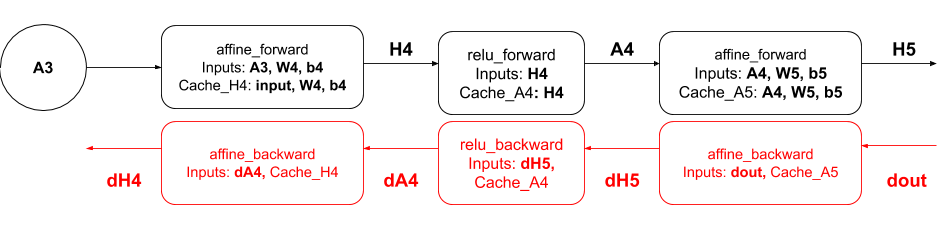
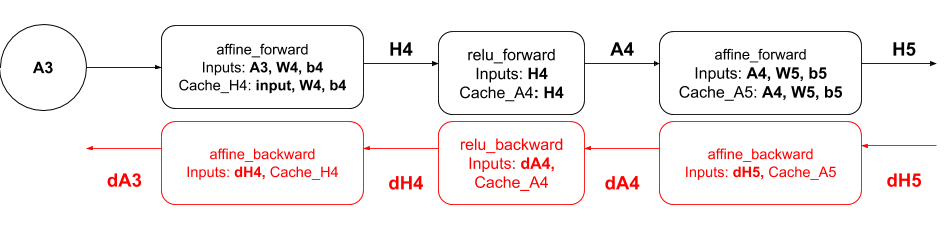
Add batchnorm post and update links at bottom.

diff --git a/_posts/2020-3-29-FC-NN.md b/_posts/2020-3-29-FC-NN.md
@@ -27,7 +27,7 @@ transformed to the neurons of the next layer $$\mathbf{out}$$ as
 
 $$
 \begin{align}
-\mathbf{out} = \mathbf{W} \cdot \mathbf{x} + \mathbf{b}
+\mathbf{out} =  \mathbf{x} \cdot \mathbf{W} + \mathbf{b}
 \end{align}
 $$
 
@@ -37,31 +37,22 @@ $$
 \begin{align}
 
 \mathbf{out} = \begin{pmatrix}
-h^{(2)}_{1} \\
-h^{(2)}_{2} \\
-\vdots \\
-h^{(2)}_{l}
+h^{(2)}_{1} & h^{(2)}_{2} & \dots & h^{(2)}_{k}
 \end{pmatrix}
-,
+, \\
+\nonumber \\
+\mathbf{x} = \begin{pmatrix}
+h^{(1)}_{1} & h^{(1)}_{2} & \dots & h^{(1)}_{l}
+\end{pmatrix}, \nonumber \\
 \mathbf{W} = \begin{pmatrix}
 W_{1,1} & W_{1,2} & \dots & W_{1,k} \\
 W_{2,1} & W_{2,1} & \dots & W_{2,k} \\
 \vdots & \vdots & \ddots & \vdots \\
 W_{l,1} & W_{l,2} & \dots & W_{l,k} \\
-\end{pmatrix}
-\nonumber \\
-\nonumber \\
-\mathbf{x} = \begin{pmatrix}
-h^{(1)}_{1} \\
-h^{(1)}_{2} \\
-\vdots \\
-h^{(1)}_{k}
 \end{pmatrix},
+\nonumber \\
 \mathbf{b} = \begin{pmatrix}
-b_{1} \\
-b_{2} \\
-\vdots \\
-b_{l}
+b_{1} & b_{2} & \dots & b_{k}
 \end{pmatrix}
 \end{align}
 $$
@@ -83,7 +74,7 @@ def affine_forward(x, w, b):
 ### Backward
 
 For the backward pass over the fully connected layers we need to calculate the gradient of 
-$$\mathbf{h}^{(2)}$$ with respect to $$\mathbf{W}, \mathbf{x}$$ and $$\mathbf{b}$$. Lets 
+$$\mathbf{out}$$ with respect to $$\mathbf{W}, \mathbf{x}$$ and $$\mathbf{b}$$. Lets 
 take at a look at the circuit diagram representing the fully-connected neural layers.
 
 ![_config.yml]({{ site.baseurl }}/images/FC_NN/FC_NN_backprop.png)
@@ -231,10 +222,10 @@ To start, initialize the weights for the neural network:
 self.params['W1'] = np.random.normal(0, weight_scale, [input_dim, hidden_dims[0]])
 self.params['b1'] = np.zeros([hidden_dims[0]])
 
-# hidden layers
-for i in range(1, self.num_layers - 1):
-    self.params['W' + str(i+1)] = np.random.normal(0, weight_scale, [hidden_dims[i - 1], hidden_dims[i]])
-    self.params['b' + str(i+1)] = np.zeros([hidden_dims[i]])
+# hidden layer
+for i in range(2, self.num_layers):
+    self.params['W' + str(i)] = np.random.normal(0, weight_scale, [hidden_dims[i - 2], hidden_dims[i - 1]])
+    self.params['b' + str(i)] = np.zeros([hidden_dims[i - 1]])
 
 # the final layer
 self.params['W' + str(self.num_layers)] = np.random.normal(0, weight_scale,
@@ -252,23 +243,23 @@ self.cache['H1'], self.cache['cache_H1'] = affine_forward(X, self.params['W1'], 
 self.cache['A1'], self.cache['cache_A1'] = relu_forward(self.cache['H1'])
 
 #Intermediate hidden laters
-for i in range(1, self.num_layers - 1):
-    self.cache['H' + str(i+1)], self.cache['cache_H' + str(i+1)] = affine_forward(
-    self.cache['A' + str(i)], self.params['W' + str(i+1)], self.params['b' + str(i+1)])
+for i in range(2, self.num_layers):
+    self.cache['H' + str(i)], self.cache['cache_H' + str(i)] = affine_forward(
+    self.cache['A' + str(i - 1)], self.params['W' + str(i)], self.params['b' + str(i)])
     
-    self.cache['A' + str(i + 1)], self.cache['cache_A' + str(i+1)] = relu_forward(
-        self.cache['H' + str(i+1)])
+    self.cache['A' + str(i)], self.cache['cache_A' + str(i)] = relu_forward(self.cache['H' + str(i)])
     
 # output layer
-scores, cache_scores = affine_forward(self.cache['A' + str(self.num_layers - 1)], 
-                   self.params['W' + str(self.num_layers)], self.params['b' + str(self.num_layers)] )
+scores, self.cache['cache_H' + str(self.num_layers)] = affine_forward(self.cache['A' + str(self.num_layers - 1)], 
+                                      self.params['W' + str(self.num_layers)], 
+                                      self.params['b' + str(self.num_layers)] )
 ```
 
 For the backward pass we can use the cache variable created in the affine_forward and ReLU_forward 
-function to compute affine_backward and ReLU_backward. For e.g. in the middle of the neural network
-the forward and backward pass would look as follow:
+function to compute affine_backward and ReLU_backward. For e.g. a 2 layer neural network would look 
+like this:
 
-![_config.yml]({{ site.baseurl }}/images/FC_NN/Modular_Forward_Backward.png)
+![_config.yml]({{ site.baseurl }}/images/FC_NN/2-layer_Modular_Forward_Backward.png)
 *Using the inputs to the forward passes in backward pass.*
 
 In python within the framework of the assignment it can be implemented in the following way:
@@ -276,24 +267,27 @@ In python within the framework of the assignment it can be implemented in the fo
 ```python
 # first backward pass
 loss, grad_L_wrt_scores = softmax_loss(scores, y)
-for i in range(self.num_layers):
-    loss += 0.5 * self.reg * (np.sum(self.params['W' + str(i + 1)] * self.params['W' + str(i + 1)]) )
+for i in range(1, self.num_layers + 1):
+    loss += 0.5 * self.reg * (np.sum(self.params['W' + str(i)] * self.params['W' + str(i)]) )
     
 
 backward = {}
-backward['H' + str(self.num_layers)], grads['W' + str(self.num_layers)], \
-grads['b' + str(self.num_layers)] = affine_backward(grad_L_wrt_scores, cache_scores)
+
+backward['A' + str(self.num_layers - 1)], grads['W' + str(self.num_layers)], \
+grads['b' + str(self.num_layers)] = affine_backward(grad_L_wrt_scores, 
+                                        self.cache['cache_H' + str(self.num_layers)])
 
 grads['W' + str(self.num_layers)] += self.reg*self.params['W' + str(self.num_layers)]
-    
-for i in range(self.num_layers - 1, 0, -1):
-    backward['A' + str(i)] = relu_backward(backward['H' + str(i + 1)], 
-                                       self.cache['cache_A' + str(i)])
 
-    backward['H' + str(i)], grads['W' + str(i)], grads['b' + str(i)] = affine_backward(
-    backward['A' + str(i)], self.cache['cache_H' + str(i)])
+for i in range(self.num_layers - 1, 0, -1):
+    backward['H' + str(i)] = relu_backward(backward['A' + str(i)], self.cache['cache_A' + str(i)])
     
+    backward['A' + str(i - 1)], grads['W' + str(i)], grads['b' + str(i)] = affine_backward(
+                                    backward['H' + str(i)], self.cache['cache_H' + str(i)])
+    
+## A0 corresponds to dX
+
     grads['W' + str(i)] += self.reg*self.params['W' + str(i)]
 ```
 
-To see the full assignment, see [here](https://github.com/usmanr149/CS231n/blob/master/assignment2/FullyConnectedNets.ipynb).
+Check out the full assignment <a href="https://github.com/usmanr149/CS231n/blob/master/assignment2/FullyConnectedNets.ipynb" target="_blank">here</a>

diff --git a/_posts/2020-3-16-two-layer-NN.md b/_posts/2020-3-16-two-layer-NN.md
@@ -167,4 +167,4 @@ grads['b1'] = grad_L_wrt_b1
 grads['W2'] = grad_L_wrt_W2 + 2 * reg * W2
 grads['b2'] = grad_L_wrt_b2
 ```
-To see the fully completed assignment, see [here](https://github.com/usmanr149/CS231n/blob/master/assignment1/two_layer_net.ipynb).
+Check out the full assignment <a href="https://github.com/usmanr149/CS231n/blob/master/assignment1/two_layer_net.ipynb" target="_blank">here</a>

diff --git a/_posts/2020-3-4-svm.md b/_posts/2020-3-4-svm.md
@@ -259,4 +259,4 @@ P_der[ytrue_class_prob[:, 0], ytrue_class_prob[:, 1]] = -count
 dW = np.matmul(X.T, P_der)/X.shape[0] + 2*reg*W
 ```
 
-To see the full assignment, see [here](https://github.com/usmanr149/CS231n/blob/master/assignment1/svm.ipynb).
+Check out the full assignment <a href="https://github.com/usmanr149/CS231n/blob/master/assignment1/svm.ipynb" target="_blank">here</a>

diff --git a/_posts/2020-3-3-knn-classifier.md b/_posts/2020-3-3-knn-classifier.md
@@ -143,4 +143,4 @@ As stated in the assignment notes:
 # and might even see a slow-down.
 ```
 
-To see the full assignment, see [here](https://github.com/usmanr149/CS231n/blob/master/assignment1/knn.ipynb).
+Check out the full assignment <a href="https://github.com/usmanr149/CS231n/blob/master/assignment1/knn.ipynb" target="_blank">here</a>
